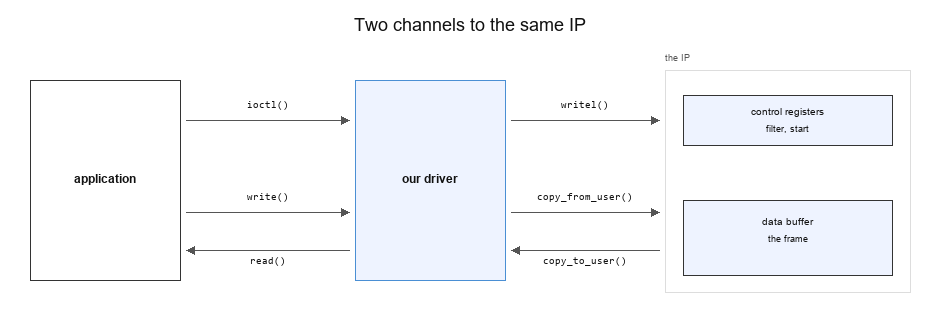
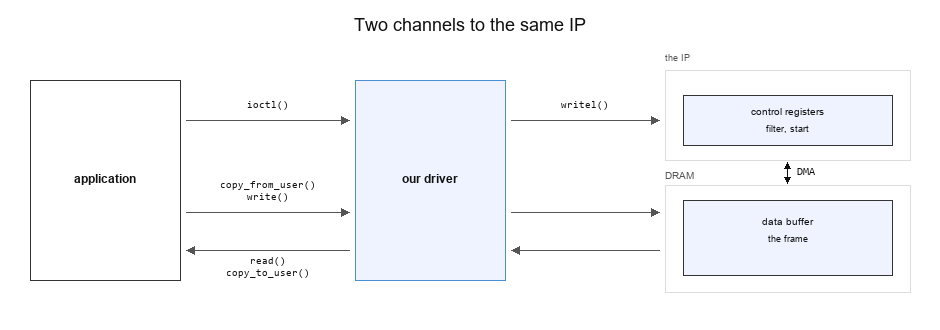
Part 4: rewrite the poll/ISR section and fix the data-path figure.
6.8 described imgproc_poll as sleeping on the wait queue. It does not:
it returns immediately and the kernel's poll core is what sleeps the
application. Replaced the prose with a nine step walkthrough, added a
sequence diagram for it, and corrected the two skeleton comments that
repeated the same claim.

Also:
- compare the interrupt path against UIO from Part 3
- probe() now lists requesting the IRQ, matching the summary
- say why copy_from_user is needed rather than only naming it
- figure 3: copy_from_user/copy_to_user were drawn between the driver
  and the IP; they belong between the application and the driver
- figure 3: the frame buffer was drawn inside the IP, which contradicts
  the DMA argument in section 1. It is now a DRAM box reached by DMA

diff --git a/posts/embedded_linux/embedded-linux-zynq-soc-part-4.md b/posts/embedded_linux/embedded-linux-zynq-soc-part-4.md
@@ -165,7 +165,7 @@ If we only had `write`, we would have to invent our own rule, such as the first 
 
 ![][image3]
 
-**Figure 3: ioctl configures the registers. write and read carry the data. They go to different parts of the IP.**
+**Figure 3: ioctl configures the registers inside the IP. write and read move the data through a buffer in DRAM, which the IP reaches by DMA.**
 
 ### poll
 
@@ -209,7 +209,7 @@ static const struct file_operations imgproc_fops = {
 
 static int imgproc_open(struct inode *inode, struct file *file)
 {
-    /* give out the fd, refuse a second user. */
+    /* makes the communication with device available and give out the fd */
 }
 
 static int imgproc_release(struct inode *inode, struct file *file)
@@ -234,7 +234,8 @@ static ssize_t imgproc_read(struct file *file, char *buf, size_t len, loff_t *of
 
 static unsigned int imgproc_poll(struct file *file, poll_table *wait)
 {
-    /* sleep until the interrupt handler says the job is done */
+    /* report if the job is done; if not, the calling
+       userspace application sleeps on wq */
 }
 
 static irqreturn_t imgproc_isr(int irq, void *dev_id)
@@ -312,7 +313,7 @@ This is not fixed and can be different for different drivers depending on the re
 struct imgproc {
     void __iomem      *base;   /* the mapped registers */
     int                irq;
-    wait_queue_head_t  wq;     /* poll() sleeps here */
+    wait_queue_head_t  wq;     /* waiting processes sleep here */
     bool               done;   /* set by the interrupt handler */
 };
 ```
@@ -329,7 +330,8 @@ A wait queue is how the kernel sleeps a process until something happens. A proce
 
 1. read the device tree node
 2. get the properties provided in the device tree, like `reg` and `interrupts`, and initialize the relevant local struct fields with them (`base`, `irq`)
-3. create `/dev/imgproc0`
+3. request `irq`, so that `imgproc_isr` runs when the IP raises the interrupt
+4. create `/dev/imgproc0`
 
 ## 6.5 imgproc_open and imgproc_release {#sec-6-5}
 
@@ -363,15 +365,48 @@ This is where the register map stays hidden. The application sends `BLUR`, and t
 
 ## 6.7 imgproc_write and imgproc_read {#sec-6-7}
 
-`write()` copies the frame from the application into the buffer the IP reads. The kernel cannot use an application pointer directly, so this goes through `copy_from_user`.
+`write()` copies the frame from the application into the buffer the IP reads.
+
+The application passes a pointer to the data buffer, but that pointer is a virtual address that only means something inside that one process. So the driver does not use it directly. Instead, `copy_from_user` translates it and copies the data across safely.
 
 `read()` copies the result back the same way, i.e. `copy_to_user`.
 
 ## 6.8 imgproc_poll and imgproc_isr {#sec-6-8}
 
-`imgproc_poll` is mapped to `poll()` in our skeleton. Similar to `read()` in our UIO blog, `poll()` puts the userspace process to sleep, and the scheduler stops scheduling that process.
+`imgproc_poll` runs and returns straight away. The kernel's poll core is what sleeps/wakes the application, and it is also what calls `imgproc_poll`.
 
-`imgproc_isr` has no userspace mapping. `imgproc_poll` and `imgproc_isr` work together in the kernel: `poll()` sleeps on the wait queue, the ISR runs when the PL interrupt fires, clears the interrupt in the IP, sets `done`, and wakes the wait queue. That is what wakes the userspace application.
+`done` is the flag in `struct imgproc` that `imgproc_isr` sets when the interrupt is triggered by the IP.
+
+1. the application calls `poll()`
+2. `poll()` goes into the kernel's poll core
+3. the poll core calls `imgproc_poll`
+4. `imgproc_poll` gives the poll core `wq` as the queue to wake the application on, then checks `done`
+5. `done` is false, so `imgproc_poll` returns "not ready"
+6. the poll core sleeps the application on `wq`
+7. the PL interrupt fires and `imgproc_isr` runs: it clears the interrupt in the IP, sets `done`, and wakes `wq`
+8. the wake lifts the poll core, which calls `imgproc_poll` again
+9. `done` is true this time, so `imgproc_poll` returns "ready" and the application's `poll()` returns
+
+![][image6]
+
+**Figure 6: The same nine steps. Note that `imgproc_poll` runs twice, and that `imgproc_isr` reaches it only through `wq`.**
+
+If `done` is already true back at step 4, `imgproc_poll` returns "ready" immediately and the application never sleeps.
+
+`imgproc_isr` has no userspace mapping. It never calls `imgproc_poll`. It only sets `done` and wakes `wq`, which is the meeting point between the two.
+
+### imgproc_isr vs UIO
+
+In [Part 3](https://rafae1130.github.io/posts/embedded_linux/embedded-linux-zynq-soc-part-3.html) the same PL interrupt reached the application, but the work was split differently.
+
+| | UIO (Part 3) | our driver |
+| --- | --- | --- |
+| the application sleeps in | `read("/dev/uio0")` | `poll()` |
+| clears the interrupt in the IP | the application, through the mapped registers | `imgproc_isr` |
+| re-arms the interrupt | the application, with `write()` to `/dev/uio0` | nothing to re-arm, the driver never masks it |
+| knows the register map | the application | the driver |
+
+With UIO everything device specific stays in the application. With our driver it moves into the ISR, and the application only learns that the job is done.
 
 ## 6.9 imgproc_remove {#sec-6-9}
 
@@ -434,3 +469,5 @@ In the next blog we will create our own driver for a custom acceleration IP and 
 [image4]: images/image4_p4.png
 
 [image5]: images/image5_p4.png
+
+[image6]: images/image6_p4.png
